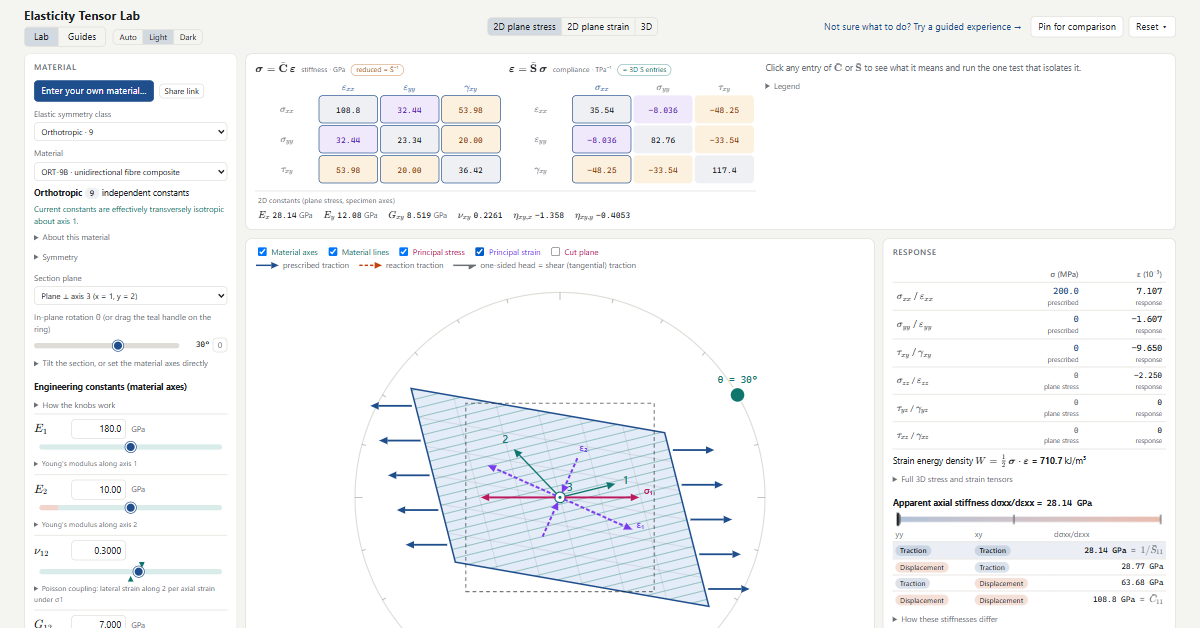
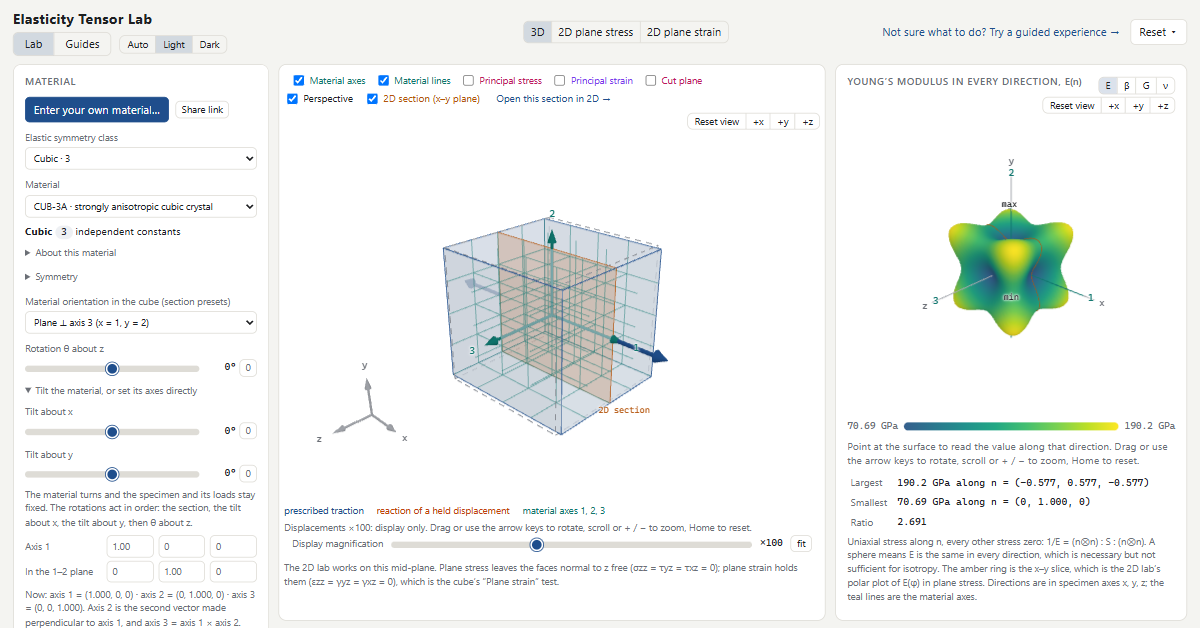
Open the Lab on the cubic crystal; show the 3D view in the link preview
The default example is now CUB-3A in 3D, whose Young's modulus surface
shows the anisotropy at a glance. The link-preview image (also the README
image) is the Lab as it opens.

diff --git a/src/App.tsx b/src/App.tsx
@@ -69,9 +69,9 @@ function saveCompleted(s: Set<string>) {
   }
 }
 
-/** A material carried by the URL (a share link), or the default example. The Lab opens in 3D. */
+/** A material carried by the URL (a share link), or the default example: the cubic crystal, in 3D. */
 function startState(): { state: LabState; message: string | null } {
-  const fallback = initialState('iso-2a', { space: '3d' });
+  const fallback = initialState('cub-3a', { space: '3d' });
   const read = typeof location === 'undefined' ? null : decodeFragment(location.hash);
   if (!read) return { state: fallback, message: null };
   if ('error' in read) return { state: fallback, message: `The link could not be opened: ${read.error}` };

diff --git a/README.md b/README.md
@@ -8,7 +8,7 @@ Interactive tools for building physical intuition in solid mechanics.
 
 **Try it: https://atababazadehnaseri.github.io/SolidMechTools/** (runs in the browser; best on a laptop or desktop)
 
-![Elasticity Tensor Lab: an off-axis fibre-composite ply shearing under pure tension](public/og-image.png)
+![Elasticity Tensor Lab: the 3D view of a cubic crystal, with its Young’s modulus surface](public/og-image.png)
 
 A homogeneous specimen of a linear elastic material: a cube in 3D, where the
 Lab opens, or a section in plane stress or plane strain. Material constants are
